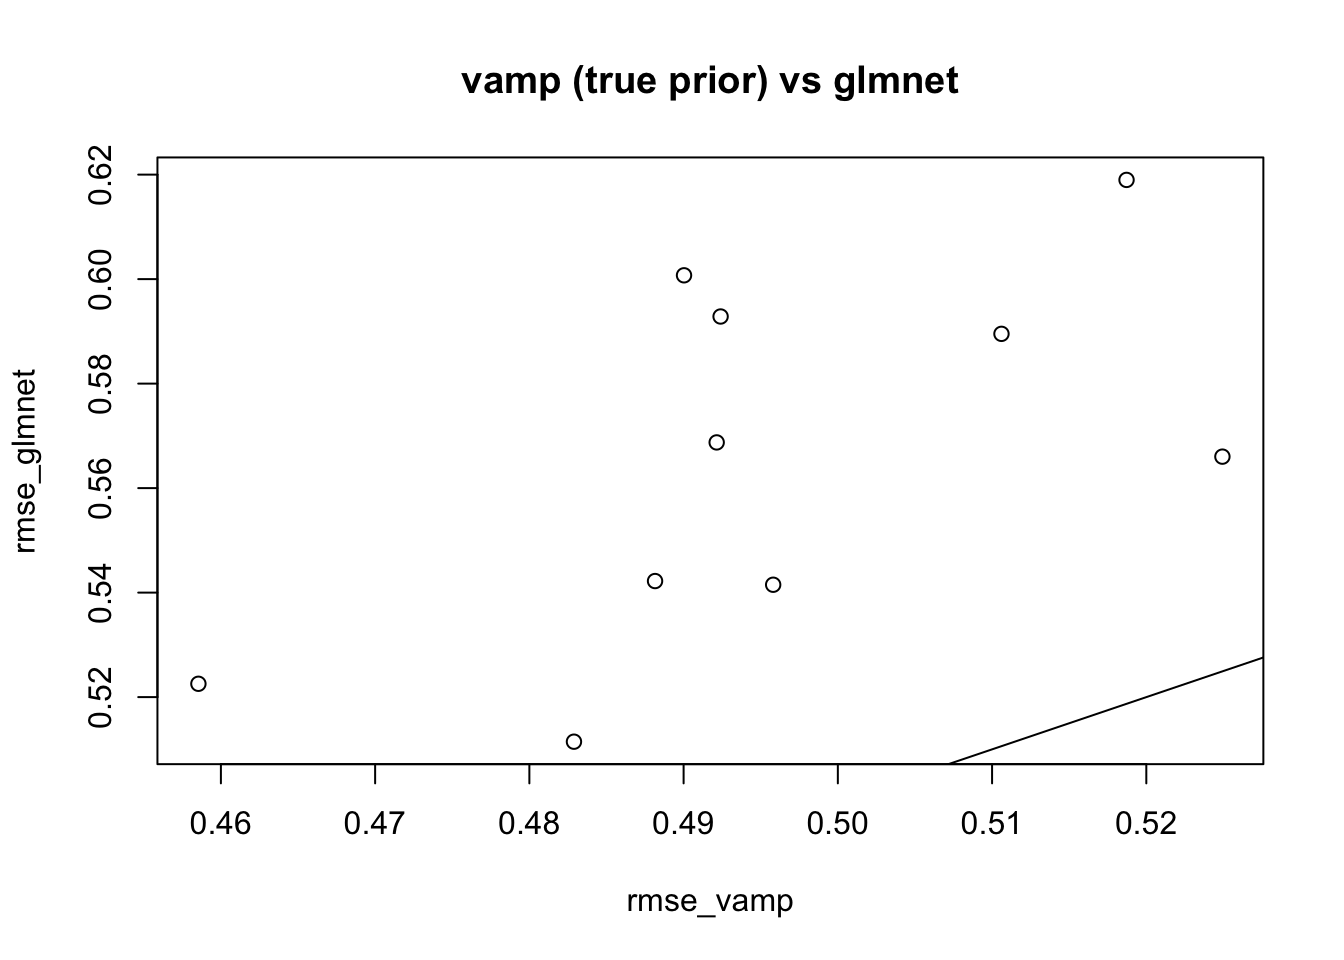
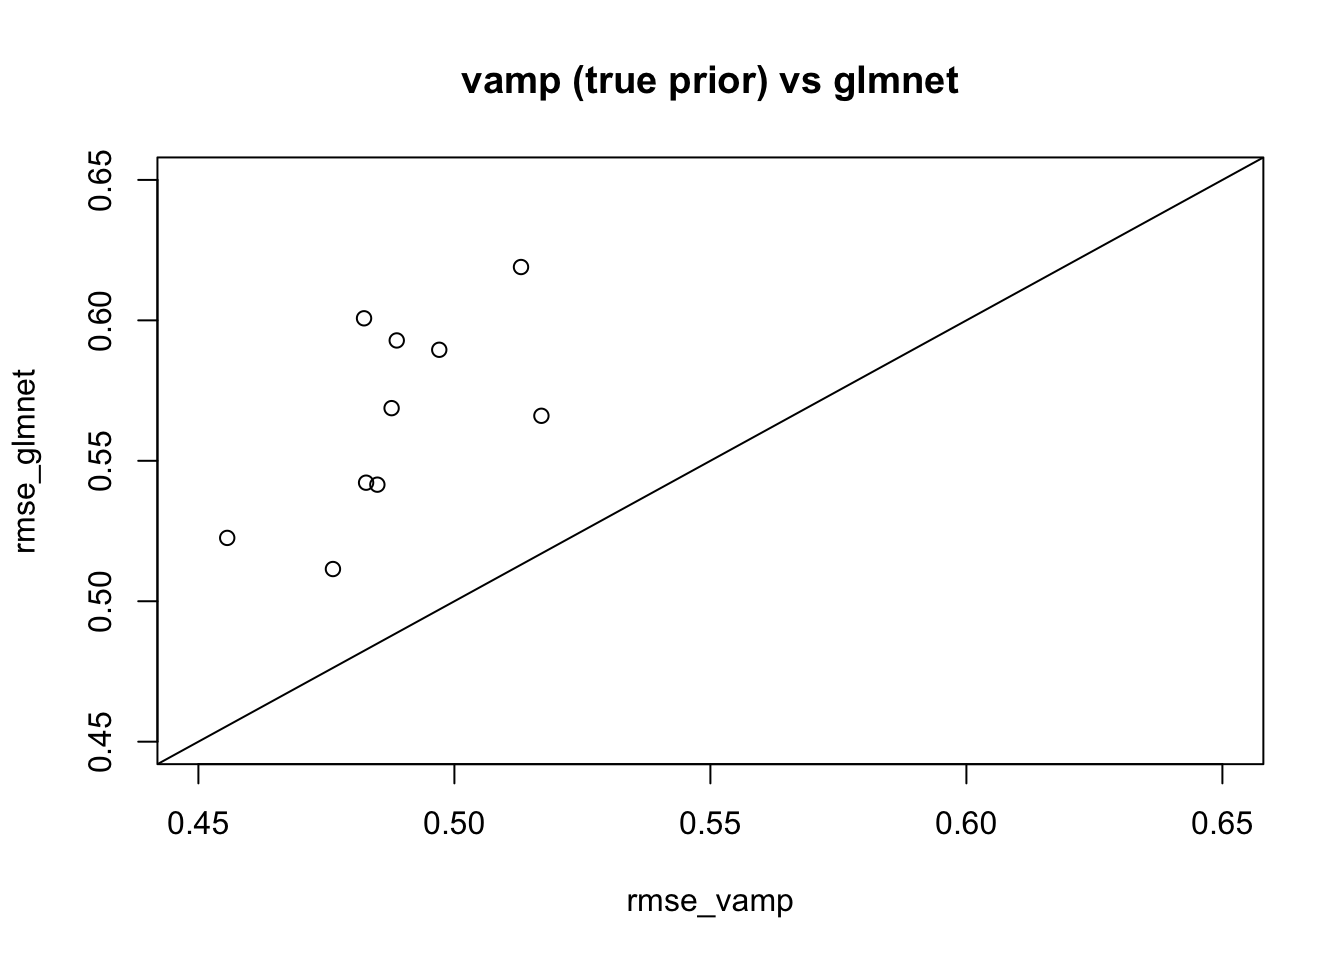
Build site.

diff --git a/docs/vamp_01.html b/docs/vamp_01.html
@@ -492,16 +492,16 @@ This reproducible <a href="http://rmarkdown.rstudio.com">R Markdown</a> analysis
 <div class="panel panel-default">
 <div class="panel-heading">
 <p class="panel-title">
-<a data-toggle="collapse" data-parent="#workflowr-checks" href="#strongRepositoryversionstrongahrefhttpsgithubcomstephens999misctreeddcef3b4a9b5abc237961d8d55ed36a4c02344d9targetblankddcef3ba"> <span class="glyphicon glyphicon-ok text-success" aria-hidden="true"></span> <strong>Repository version:</strong> <a href="https://github.com/stephens999/misc/tree/ddcef3b4a9b5abc237961d8d55ed36a4c02344d9" target="_blank">ddcef3b</a> </a>
+<a data-toggle="collapse" data-parent="#workflowr-checks" href="#strongRepositoryversionstrongahrefhttpsgithubcomstephens999misctreeecbeb2c6d83b971c2b93ebd5af371318a8563db0targetblankecbeb2ca"> <span class="glyphicon glyphicon-ok text-success" aria-hidden="true"></span> <strong>Repository version:</strong> <a href="https://github.com/stephens999/misc/tree/ecbeb2c6d83b971c2b93ebd5af371318a8563db0" target="_blank">ecbeb2c</a> </a>
 </p>
 </div>
[2 lines of base64/hex data omitted]
 <div class="panel-body">
 <p>
 Great! You are using Git for version control. Tracking code development and connecting the code version to the results is critical for reproducibility.
 </p>
 <p>
-The results in this page were generated with repository version <a href="https://github.com/stephens999/misc/tree/ddcef3b4a9b5abc237961d8d55ed36a4c02344d9" target="_blank">ddcef3b</a>. See the <em>Past versions</em> tab to see a history of the changes made to the R Markdown and HTML files.
+The results in this page were generated with repository version <a href="https://github.com/stephens999/misc/tree/ecbeb2c6d83b971c2b93ebd5af371318a8563db0" target="_blank">ecbeb2c</a>. See the <em>Past versions</em> tab to see a history of the changes made to the R Markdown and HTML files.
 </p>
 <p>
 Note that you need to be careful to ensure that all relevant files for the analysis have been committed to Git prior to generating the results (you can use <code>wflow_publish</code> or <code>wflow_git_commit</code>). workflowr only checks the R Markdown file, but you know if there are other scripts or data files that it depends on. Below is the status of the Git repository when the results were generated:
@@ -701,6 +701,40 @@ Message
 Rmd
 </td>
 <td>
+<a href="https://github.com/stephens999/misc/blob/ecbeb2c6d83b971c2b93ebd5af371318a8563db0/analysis/vamp_01.Rmd" target="_blank">ecbeb2c</a>
+</td>
+<td>
+Matthew Stephens
+</td>
+<td>
+2021-02-04
+</td>
+<td>
+wflow_publish(“vamp_01.Rmd”)
+</td>
+</tr>
+<tr>
+<td>
+html
+</td>
+<td>
+<a href="https://rawcdn.githack.com/stephens999/misc/89f41f9550fd04462365aec5bab23510e4de6593/docs/vamp_01.html" target="_blank">89f41f9</a>
+</td>
+<td>
+Matthew Stephens
+</td>
+<td>
+2021-02-04
+</td>
+<td>
+Build site.
+</td>
+</tr>
+<tr>
+<td>
+Rmd
+</td>
+<td>
 <a href="https://github.com/stephens999/misc/blob/ddcef3b4a9b5abc237961d8d55ed36a4c02344d9/analysis/vamp_01.Rmd" target="_blank">ddcef3b</a>
 </td>
 <td>
@@ -792,9 +826,83 @@ vamp = function(A,y,ebnm_fn= function(x,s){ebnm_normal(x=x,s=s,mode=0,scale=1)},
 plot(fit$x1,fit$x2, main=&quot;x1 vs x2&quot;)
 abline(a=0,b=1)</code></pre>
 <p><img src="figure/vamp_01.Rmd/unnamed-chunk-5-1.png" width="672" style="display: block; margin: auto;" /></p>
+<p>
+<button type="button" class="btn btn-default btn-xs btn-workflowr btn-workflowr-fig" data-toggle="collapse" data-target="#fig-unnamed-chunk-5-1">
+Past versions of unnamed-chunk-5-1.png
+</button>
+</p>
+<div id="fig-unnamed-chunk-5-1" class="collapse">
+<div class="table-responsive">
+<table class="table table-condensed table-hover">
+<thead>
+<tr>
+<th>
+Version
+</th>
+<th>
+Author
+</th>
+<th>
+Date
+</th>
+</tr>
+</thead>
+<tbody>
+<tr>
+<td>
+<a href="https://github.com/stephens999/misc/blob/89f41f9550fd04462365aec5bab23510e4de6593/docs/figure/vamp_01.Rmd/unnamed-chunk-5-1.png" target="_blank">89f41f9</a>
+</td>
+<td>
+Matthew Stephens
+</td>
+<td>
+2021-02-04
+</td>
+</tr>
+</tbody>
+</table>
+</div>
+</div>
 <pre class="r"><code>plot(fit$x1,x.rr, main=&quot;comparison with ridge regression&quot;)
 abline(a=0,b=1)</code></pre>
 <p><img src="figure/vamp_01.Rmd/unnamed-chunk-5-2.png" width="672" style="display: block; margin: auto;" /></p>
+<p>
+<button type="button" class="btn btn-default btn-xs btn-workflowr btn-workflowr-fig" data-toggle="collapse" data-target="#fig-unnamed-chunk-5-2">
+Past versions of unnamed-chunk-5-2.png
+</button>
+</p>
+<div id="fig-unnamed-chunk-5-2" class="collapse">
+<div class="table-responsive">
+<table class="table table-condensed table-hover">
+<thead>
+<tr>
+<th>
+Version
+</th>
+<th>
+Author
+</th>
+<th>
+Date
+</th>
+</tr>
+</thead>
+<tbody>
+<tr>
+<td>
+<a href="https://github.com/stephens999/misc/blob/89f41f9550fd04462365aec5bab23510e4de6593/docs/figure/vamp_01.Rmd/unnamed-chunk-5-2.png" target="_blank">89f41f9</a>
+</td>
+<td>
+Matthew Stephens
+</td>
+<td>
+2021-02-04
+</td>
+</tr>
+</tbody>
+</table>
+</div>
+</div>
 <p>Note that the <span class="math inline">\(\eta\)</span> values converge to the inverse of the mean of the digonal of the posterior variance.</p>
 <pre class="r"><code>fit$eta1 - fit$eta2</code></pre>
 <pre><code>[1] 0</code></pre>
@@ -830,18 +938,55 @@ abline(a=0,b=1)</code></pre>
     sim$Y = sim$Y + E
     
     fit_glmnet &lt;- cv.glmnet(x=sim$X, y=sim$Y, family=&quot;gaussian&quot;, alpha=1, standardize=FALSE)  
-    fit_vamp &lt;- vamp(A=sim$X, y = sim$Y, ebnm_fn = my_ebnm_fn, niter=10)
+    fit_vamp &lt;- vamp(A=sim$X, y = sim$Y, ebnm_fn = my_ebnm_fn, theta2  = 1/sigma2, niter=10)
     
     
     rmse_glmnet[i] = sqrt(mean((sim$B-coef(fit_glmnet)[-1])^2))
     rmse_vamp[i] = sqrt(mean((sim$B-fit_vamp$x1)^2))
   }
   
-  plot(rmse_vamp,rmse_glmnet,main=&quot;vamp (true prior) vs glmnet&quot;)
+  plot(rmse_vamp,rmse_glmnet,main=&quot;vamp (true prior) vs glmnet&quot;,xlim=c(0.45,0.65),ylim=c(0.45,0.65))
   
 
   abline(a=0,b=1)</code></pre>
 <p><img src="figure/vamp_01.Rmd/unnamed-chunk-8-1.png" width="672" style="display: block; margin: auto;" /></p>
+<p>
+<button type="button" class="btn btn-default btn-xs btn-workflowr btn-workflowr-fig" data-toggle="collapse" data-target="#fig-unnamed-chunk-8-1">
+Past versions of unnamed-chunk-8-1.png
+</button>
+</p>
+<div id="fig-unnamed-chunk-8-1" class="collapse">
+<div class="table-responsive">
+<table class="table table-condensed table-hover">
+<thead>
+<tr>
+<th>
+Version
+</th>
+<th>
+Author
+</th>
+<th>
+Date
+</th>
+</tr>
+</thead>
+<tbody>
+<tr>
+<td>
+<a href="https://github.com/stephens999/misc/blob/89f41f9550fd04462365aec5bab23510e4de6593/docs/figure/vamp_01.Rmd/unnamed-chunk-8-1.png" target="_blank">89f41f9</a>
+</td>
+<td>
+Matthew Stephens
+</td>
+<td>
+2021-02-04
+</td>
+</tr>
+</tbody>
+</table>
+</div>
+</div>
 <br>
 <p>
 <button type="button" class="btn btn-default btn-workflowr btn-workflowr-sessioninfo" data-toggle="collapse" data-target="#workflowr-sessioninfo" style="display: block;">
